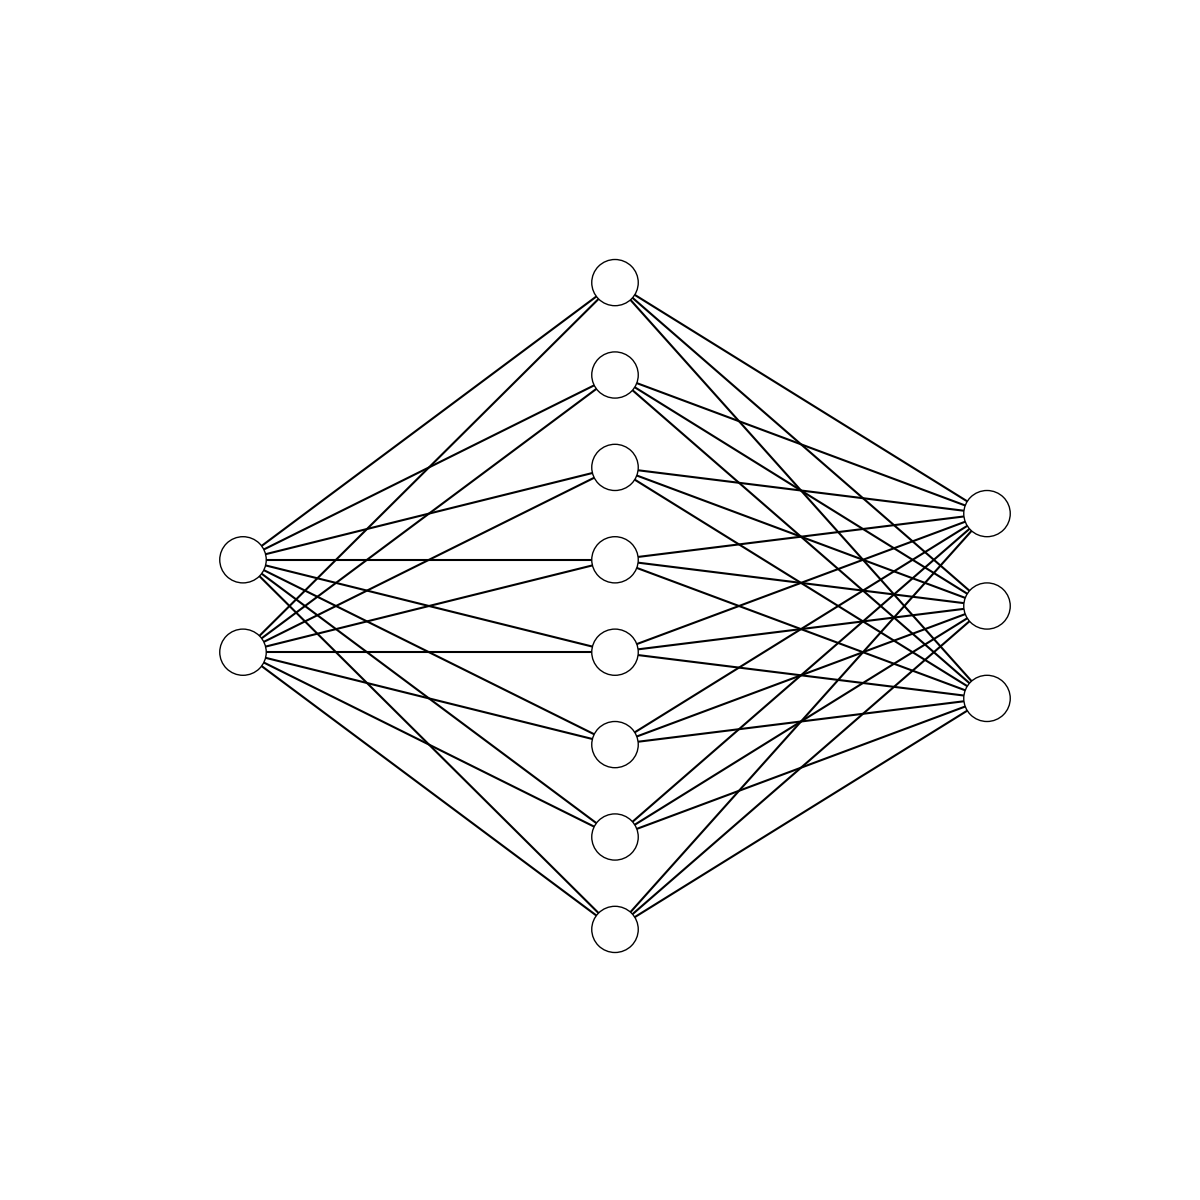
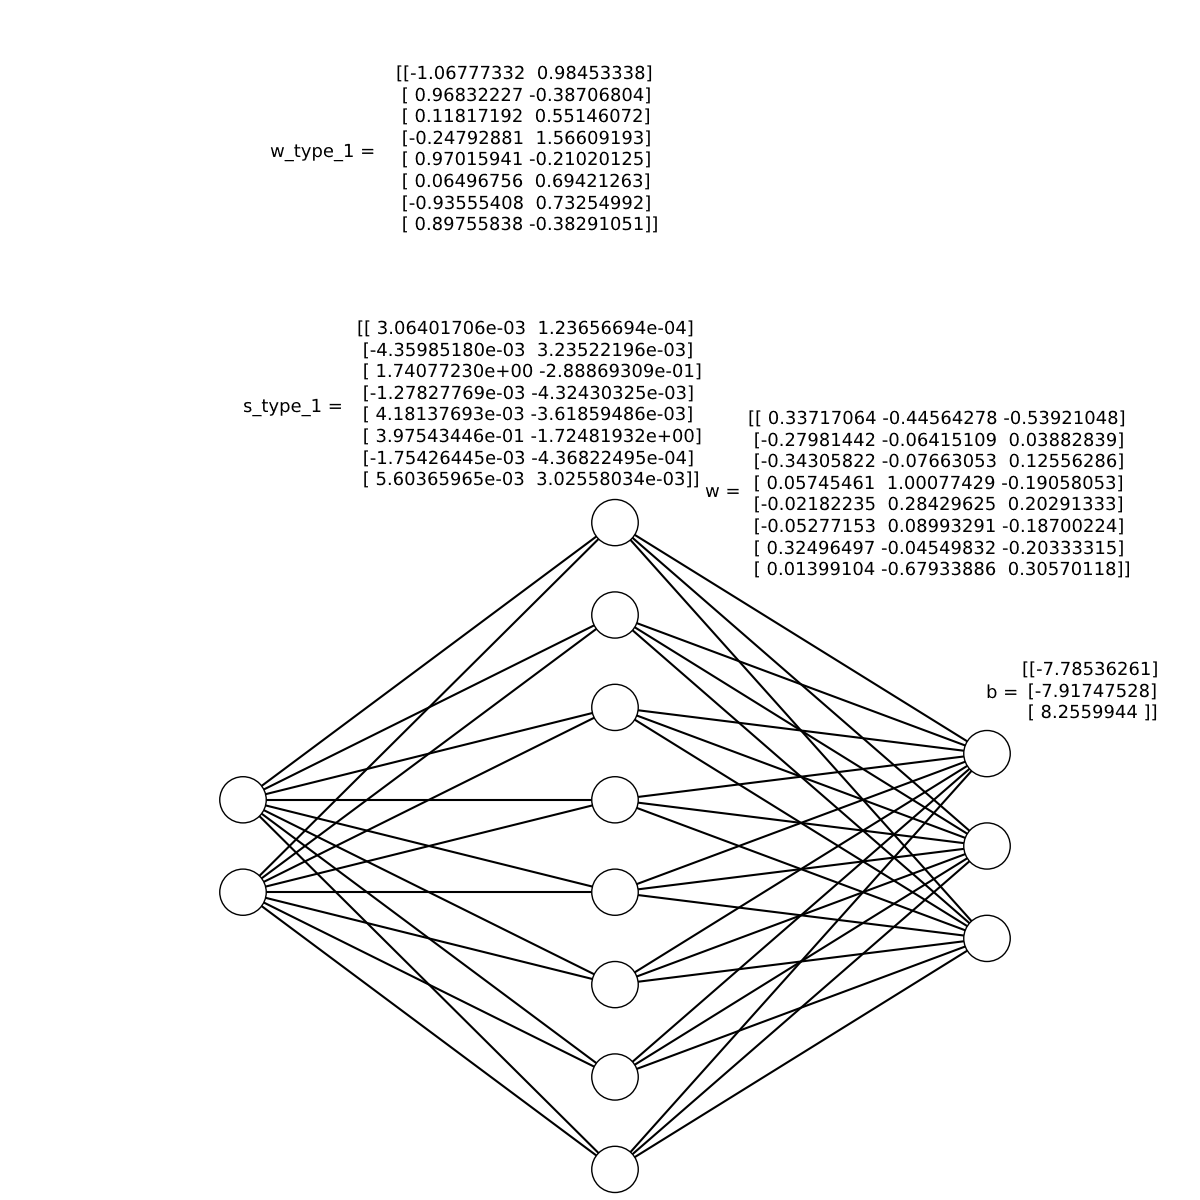
Added nn graph

diff --git a/neuro_evolutional_net/main.py b/neuro_evolutional_net/main.py
@@ -106,18 +106,18 @@ def main():
 
 
 if __name__ == "__main__":
-    #main()
-    import pickle
+    main()
+    """import pickle
     dataset = Dataset('dataset.txt')
     layers = [2, 8, 3]
     neural_net = NeuralNet(layers, dataset)
     with open('best_individual_283.pickle', 'rb') as inp:
         best = pickle.load(inp)
 
-    #neural_net.show(best.value, save_file='neural_net_283.png')
+    neural_net.show(best.value, save_file='neural_net_283.png')
 
-    w_type_1, s_type_1, w, b = neural_net.decode_params(best.value)
+    w_type_1, s_type_1, w ,b = neural_net.decode_params(best.value)
     print(w_type_1)
     print(s_type_1),
     print(w)
-    print(b.reshape(b.shape[0], 1))
+    print(b.reshape(b.size, 1))"""
